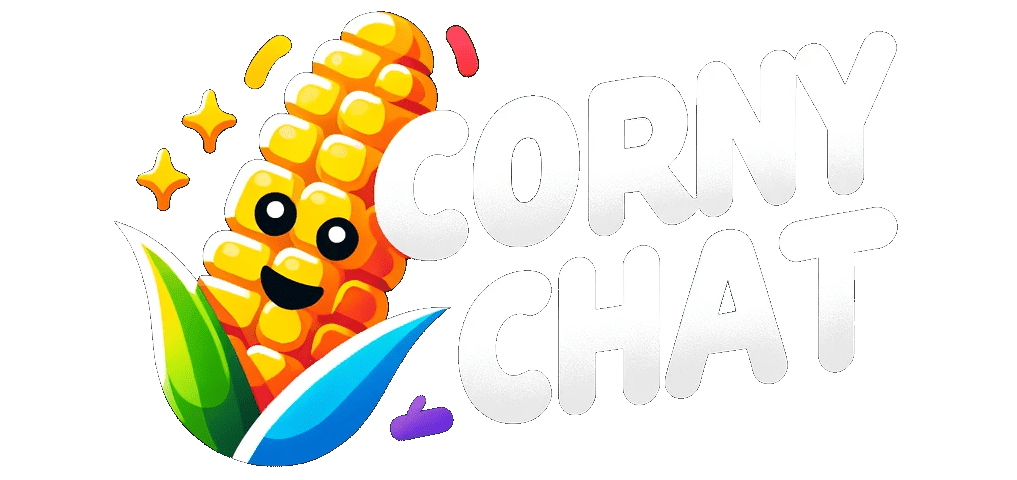
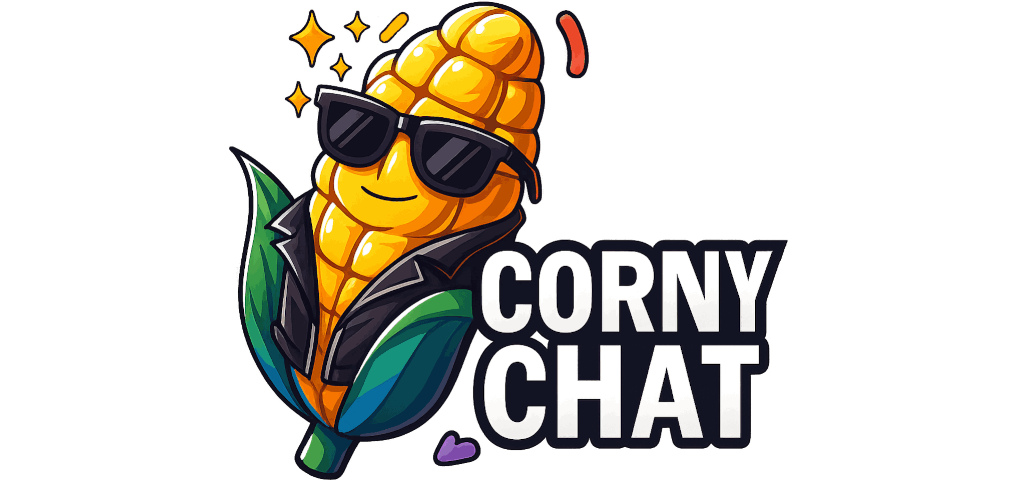
Visual Updates and Public Rooms
- Initiating skins folder structure
- Homepage header image changed to new cool style with the shades
- Added support for forced public rooms

diff --git a/pantry/auth/index.js b/pantry/auth/index.js
@@ -413,10 +413,31 @@ const roomAuthenticator = {
       }
       // rule: for a room to be public, user must have an npub
       // OR at least one other owner currently connected must have an npub
-      if (npubs.length == 0 && connectedOwnerNpubs.length == 0) {
+      // OR it must be on the always public list
+      let permanentPublic = false;
+      let publicRooms = await get('publicRooms');
+      if (publicRooms != null) {
+        for (let publicRoom of publicRooms) {
+          if (publicRoom == roomId) {
+            permanentPublic = true;
+            break;
+          }
+        }
+      }
+      if (
+        npubs.length == 0 &&
+        connectedOwnerNpubs.length == 0 &&
+        !permanentPublic
+      ) {
         console.log('forcing room to private');
         roomInfo.isPrivate = true;
         postingRoom.isPrivate = true;
+        req.body.isPrivate = true;
+      }
+      if (permanentPublic) {
+        roomInfo.isPrivate = false;
+        postingRoom.isPrivate = false;
+        req.body.isPrivate = false;
       }
       // set the new update time
       req.body.updateTime = Date.now();
